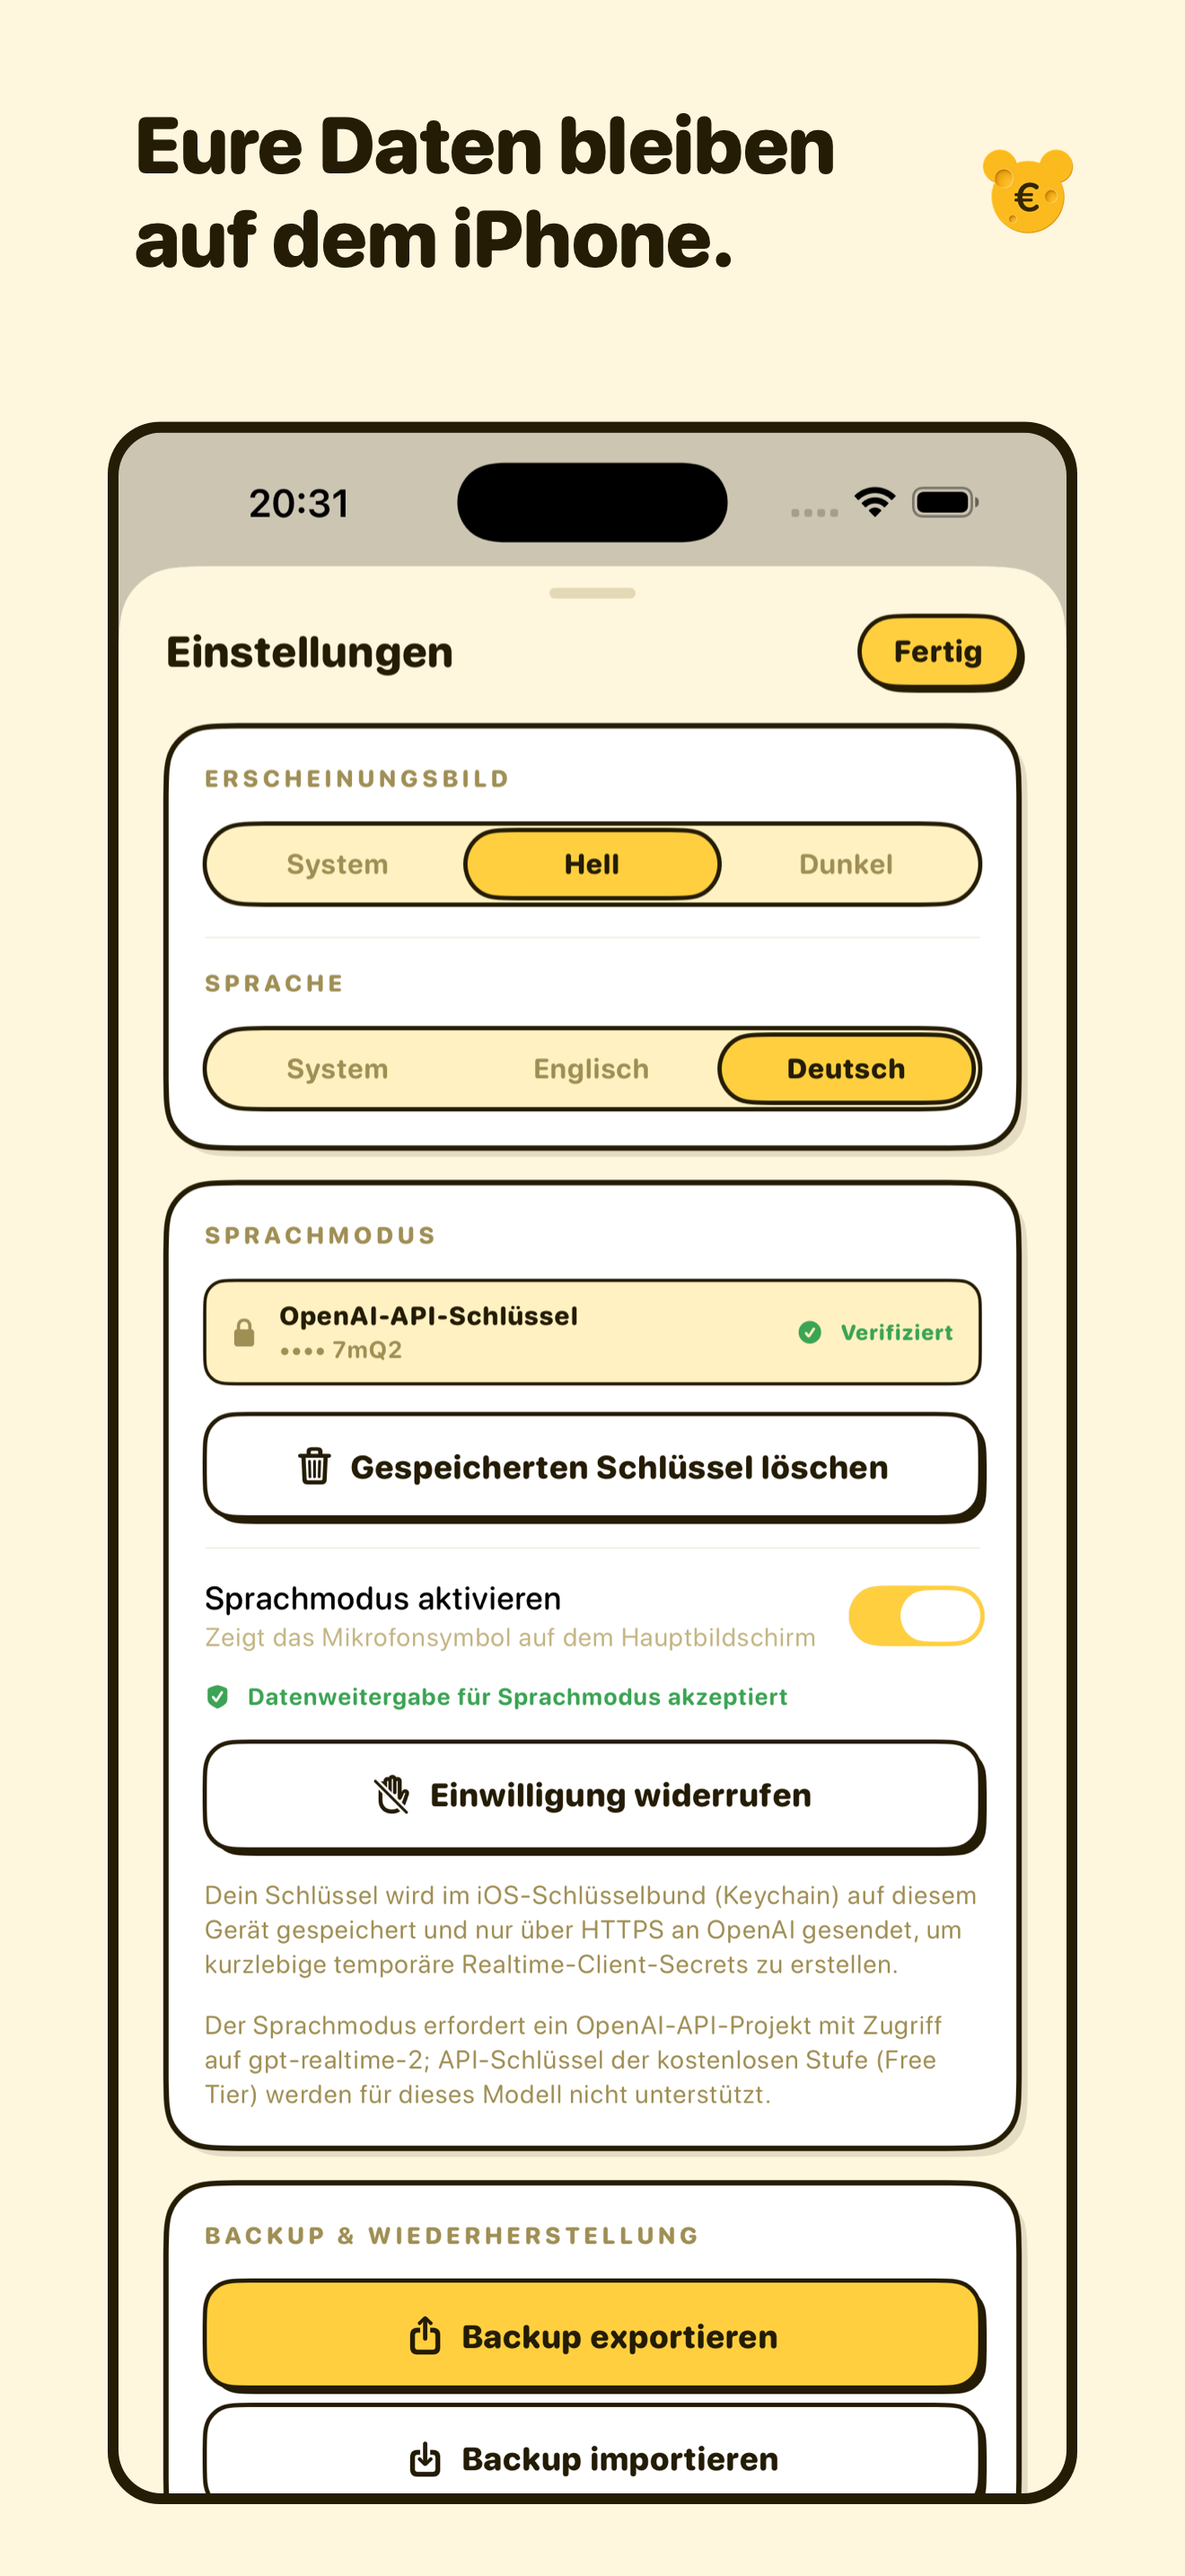
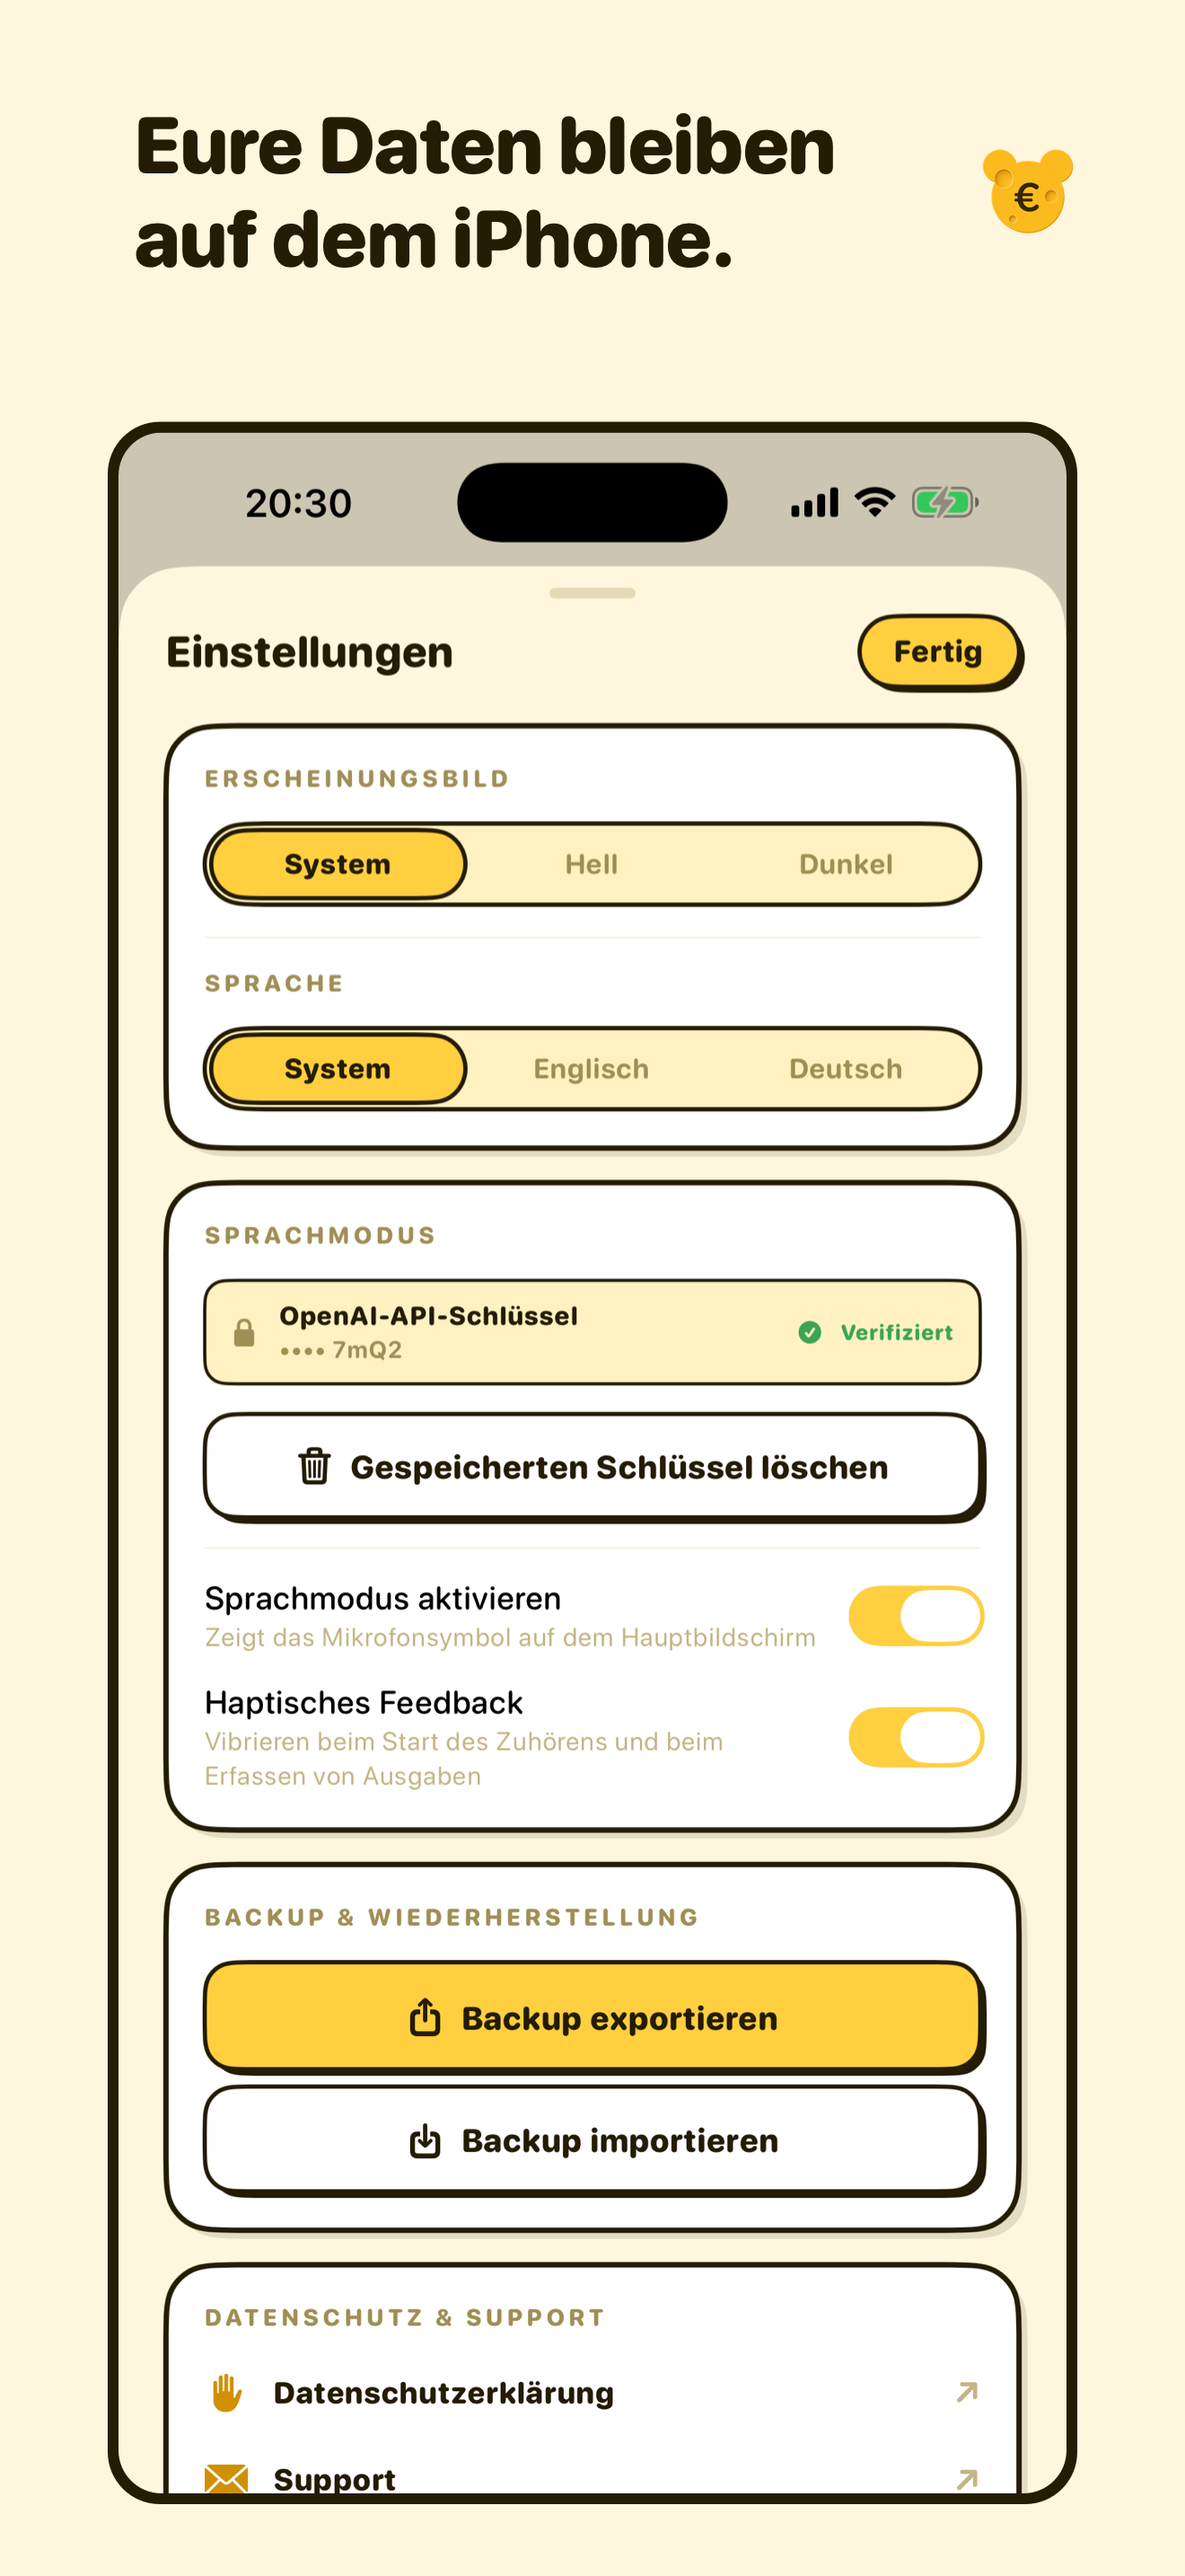
Re-capture Settings and widget App Store screenshots
04-settings now shows the simplified Voice Mode section. The previous
capture still had the consent badge, the withdrawal button, and the two
disclosure paragraphs that 1.3.0 removed; with those gone the Backup and
Privacy sections fit on screen without scrolling.

05-widgets now shows both widgets side by side -- dictate on the left,
manual add on the right -- so the scene covers both capture paths rather
than just manual entry. The widget gallery cooperated this time.

Both captured on iPhone 17 Pro Max at 1320x2868 in each locale, and the
German pair reads 20:30 in the status bar, matching the rest of the set.

Not done: the solid brand-colour wallpaper. The iOS Simulator ships no
Wallpaper pane -- Settings goes straight from StandBy to Screen Time,
with no Display & Brightness either -- and iOS 26 stores wallpaper through
WallpaperKit posters rather than replaceable image files. The stock
wallpaper stands; a solid backdrop needs a capture from a physical device.
Noted in the screenshot plan.

diff --git a/AppStore/screenshots/README.md b/AppStore/screenshots/README.md
@@ -22,12 +22,13 @@ Capture real app UI from the iPhone 17 Pro Max simulator in portrait orientation
 4. `04-settings`
    - English caption: Your data stays on your iPhone.
    - German caption: Eure Daten bleiben auf dem iPhone.
-   - Settings showing verified Voice Mode, consent status, backup controls, and privacy/support access. The visible API suffix is synthetic.
+   - Settings showing verified Voice Mode, the two Voice Mode toggles, backup controls, and privacy/support access. The visible API suffix is synthetic. Re-captured for 1.3.0 after the consent badge, withdrawal button, and disclosure paragraphs were removed.
 
 5. `05-widgets`
    - English caption: Capture it before you forget.
    - German caption: Erfassen, bevor es vergessen ist.
-   - Home Screen with the medium Mäuse widget in place, showing that a new expense starts without opening the app first. Capture on a stock Home Screen page; keep the widget in the top-left slot so it reads first.
+   - Home Screen with both medium Mäuse widgets side by side — dictate on the left, manual add on the right — showing that a new expense starts without opening the app first. Capture on a stock Home Screen page with the widgets in the top row.
+   - Note: the simulator has no Wallpaper pane, so the stock wallpaper is used. A solid brand-colour backdrop needs a capture from a physical device.
 
 ## Rules
 

diff --git a/AppStore/submission-checklist.md b/AppStore/submission-checklist.md
@@ -35,7 +35,8 @@ numbers, device QA — was reset for 1.3.0 and needs re-verification before subm
 - [x] Support, marketing, and privacy URLs are entered.
 - [x] Copyright is `2026 Michael Diestelberg`.
 - [x] A fifth scene, `05-widgets`, was captured on iPhone 17 Pro Max showing the Home Screen widget, and framed in both languages.
-- [ ] Scenes `01-dashboard`, `02-editor`, `03-voice`, and `04-settings` are re-captured for 1.3.0 — those four still predate widgets, Lock Screen, and Control Center capture.
+- [x] `04-settings` re-captured for 1.3.0 on the simplified Voice Mode section, and `05-widgets` re-captured showing both widgets.
+- [ ] Scenes `01-dashboard`, `02-editor`, and `03-voice` are re-captured for 1.3.0 — those three still come from the 1.2.0 source tree.
 - [x] Framed screenshots regenerated with `scripts/frame-app-store-screenshots.swift`; all ten carry the new marketing captions.
 - [ ] Five English 6.9-inch screenshots are uploaded in the planned order.
 - [ ] Five German 6.9-inch screenshots are uploaded in the planned order.
